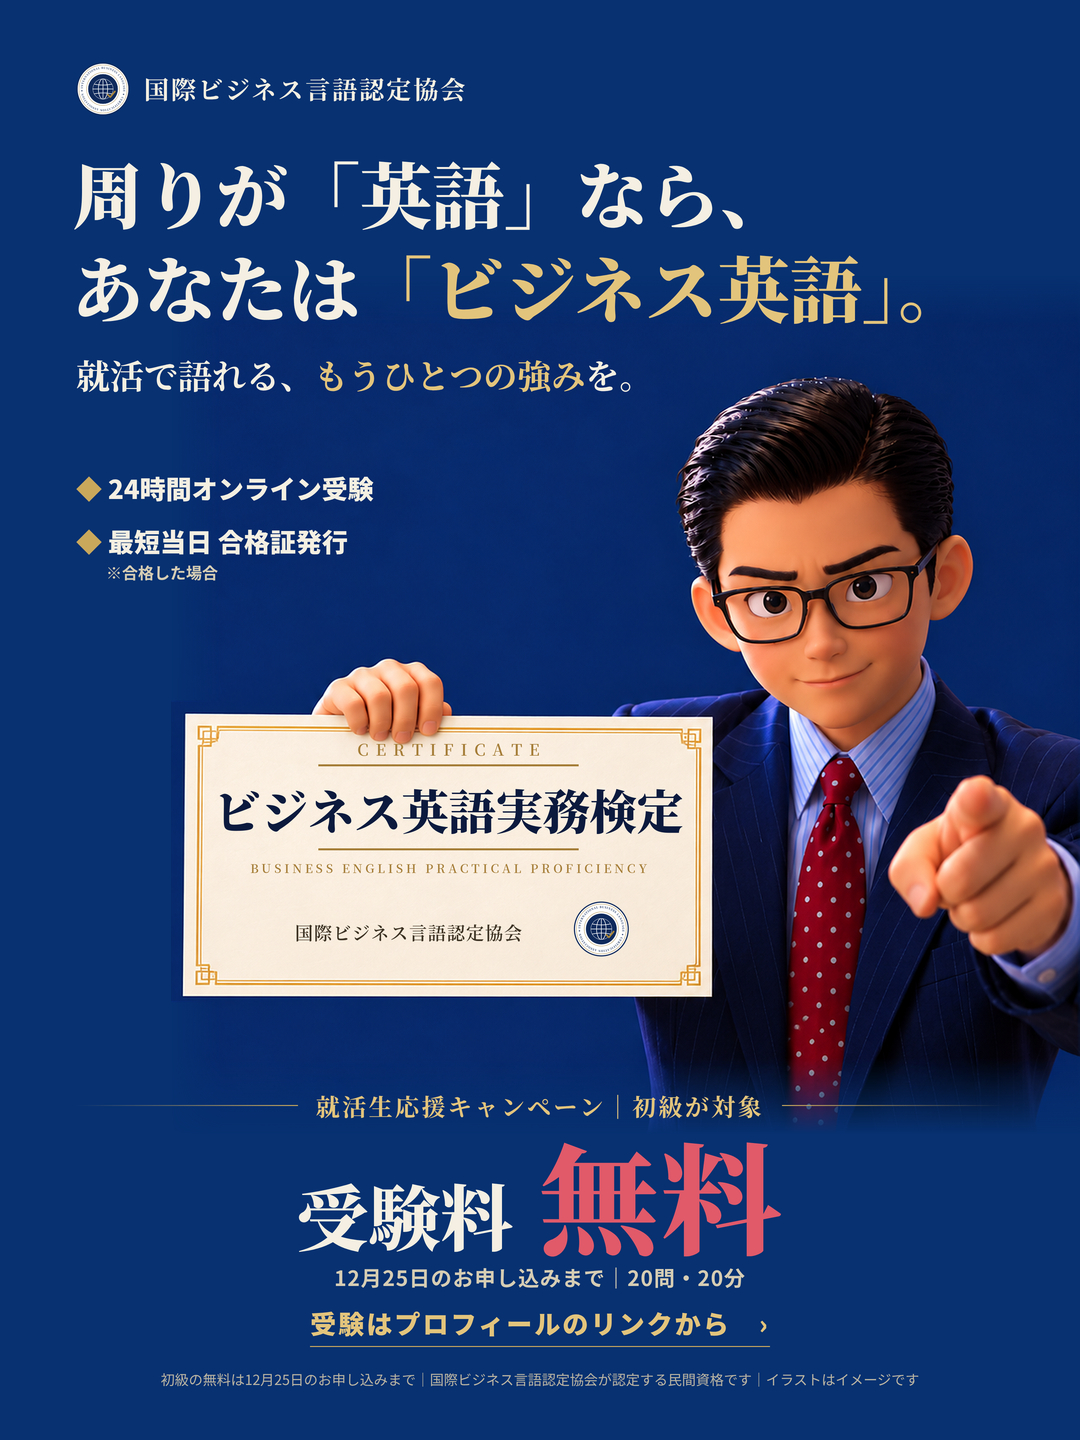
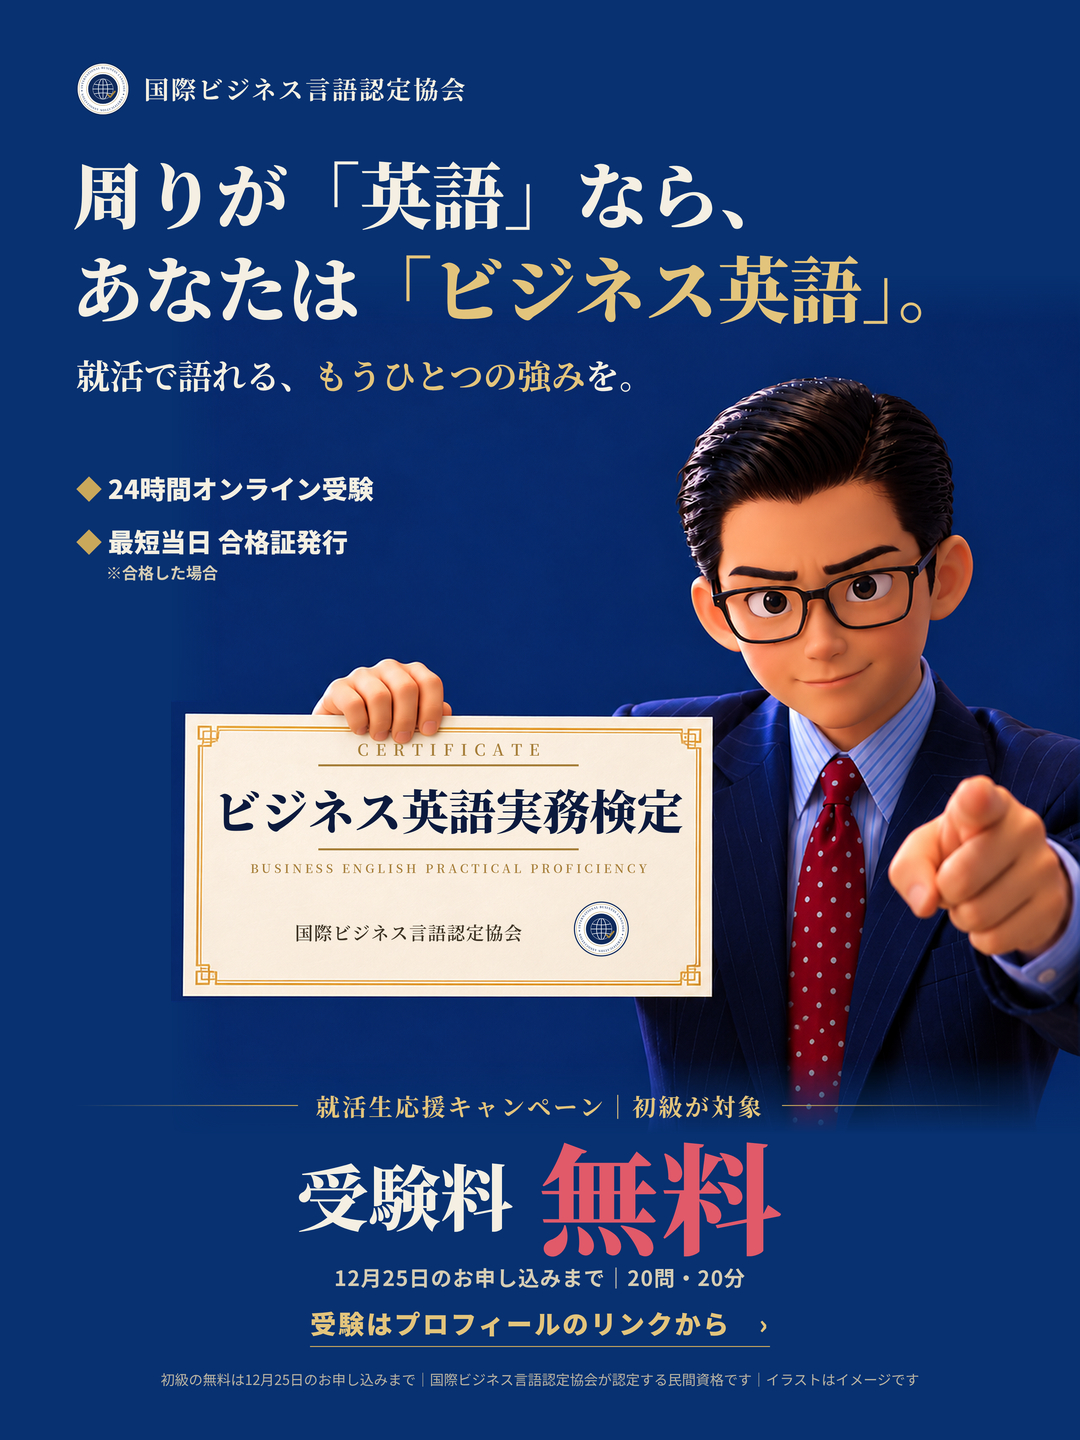
v28：受験料を無料の上下中央に
Claude-Session: https://claude.ai/code/session_014p5jL2LKN9C3tYKst8GaL5

Changed region(s): [[0.275, 0.8125, 0.4889, 0.875]]

diff --git a/content/posters/ig_v28.html b/content/posters/ig_v28.html
@@ -45,7 +45,7 @@ body{font-family:"Noto Sans CJK JP",sans-serif;color:#f4efe2;-webkit-font-smooth
 .vD .t:before,.vD .t:after{content:"";flex:1;height:1.5px;background:linear-gradient(90deg,rgba(201,168,92,0),#c9a85c)}
 .vD .t:after{background:linear-gradient(90deg,#c9a85c,rgba(201,168,92,0))}
 .vD .t span{font-family:"Noto Serif CJK JP",serif;font-weight:700;font-size:24px;letter-spacing:.1em;color:#e3c47c}
-.vD .a{margin-top:2px;font-family:"Noto Serif CJK JP",serif;font-weight:900;font-size:72px;line-height:1.15;display:flex;align-items:baseline;justify-content:center;gap:26px}
+.vD .a{margin-top:2px;font-family:"Noto Serif CJK JP",serif;font-weight:900;font-size:72px;line-height:1.15;display:flex;align-items:center;justify-content:center;gap:26px}
 .vD .a b{font-size:120px;color:#e05a6a;letter-spacing:.02em}
 .vD .d{font-size:21px;font-weight:700;color:#d6cdb4;letter-spacing:.04em}
 .vD .c{margin-top:12px;display:inline-block;font-weight:900;font-size:26px;color:#e3c47c;letter-spacing:.08em;border-bottom:1.5px solid #c9a85c;padding-bottom:4px}
